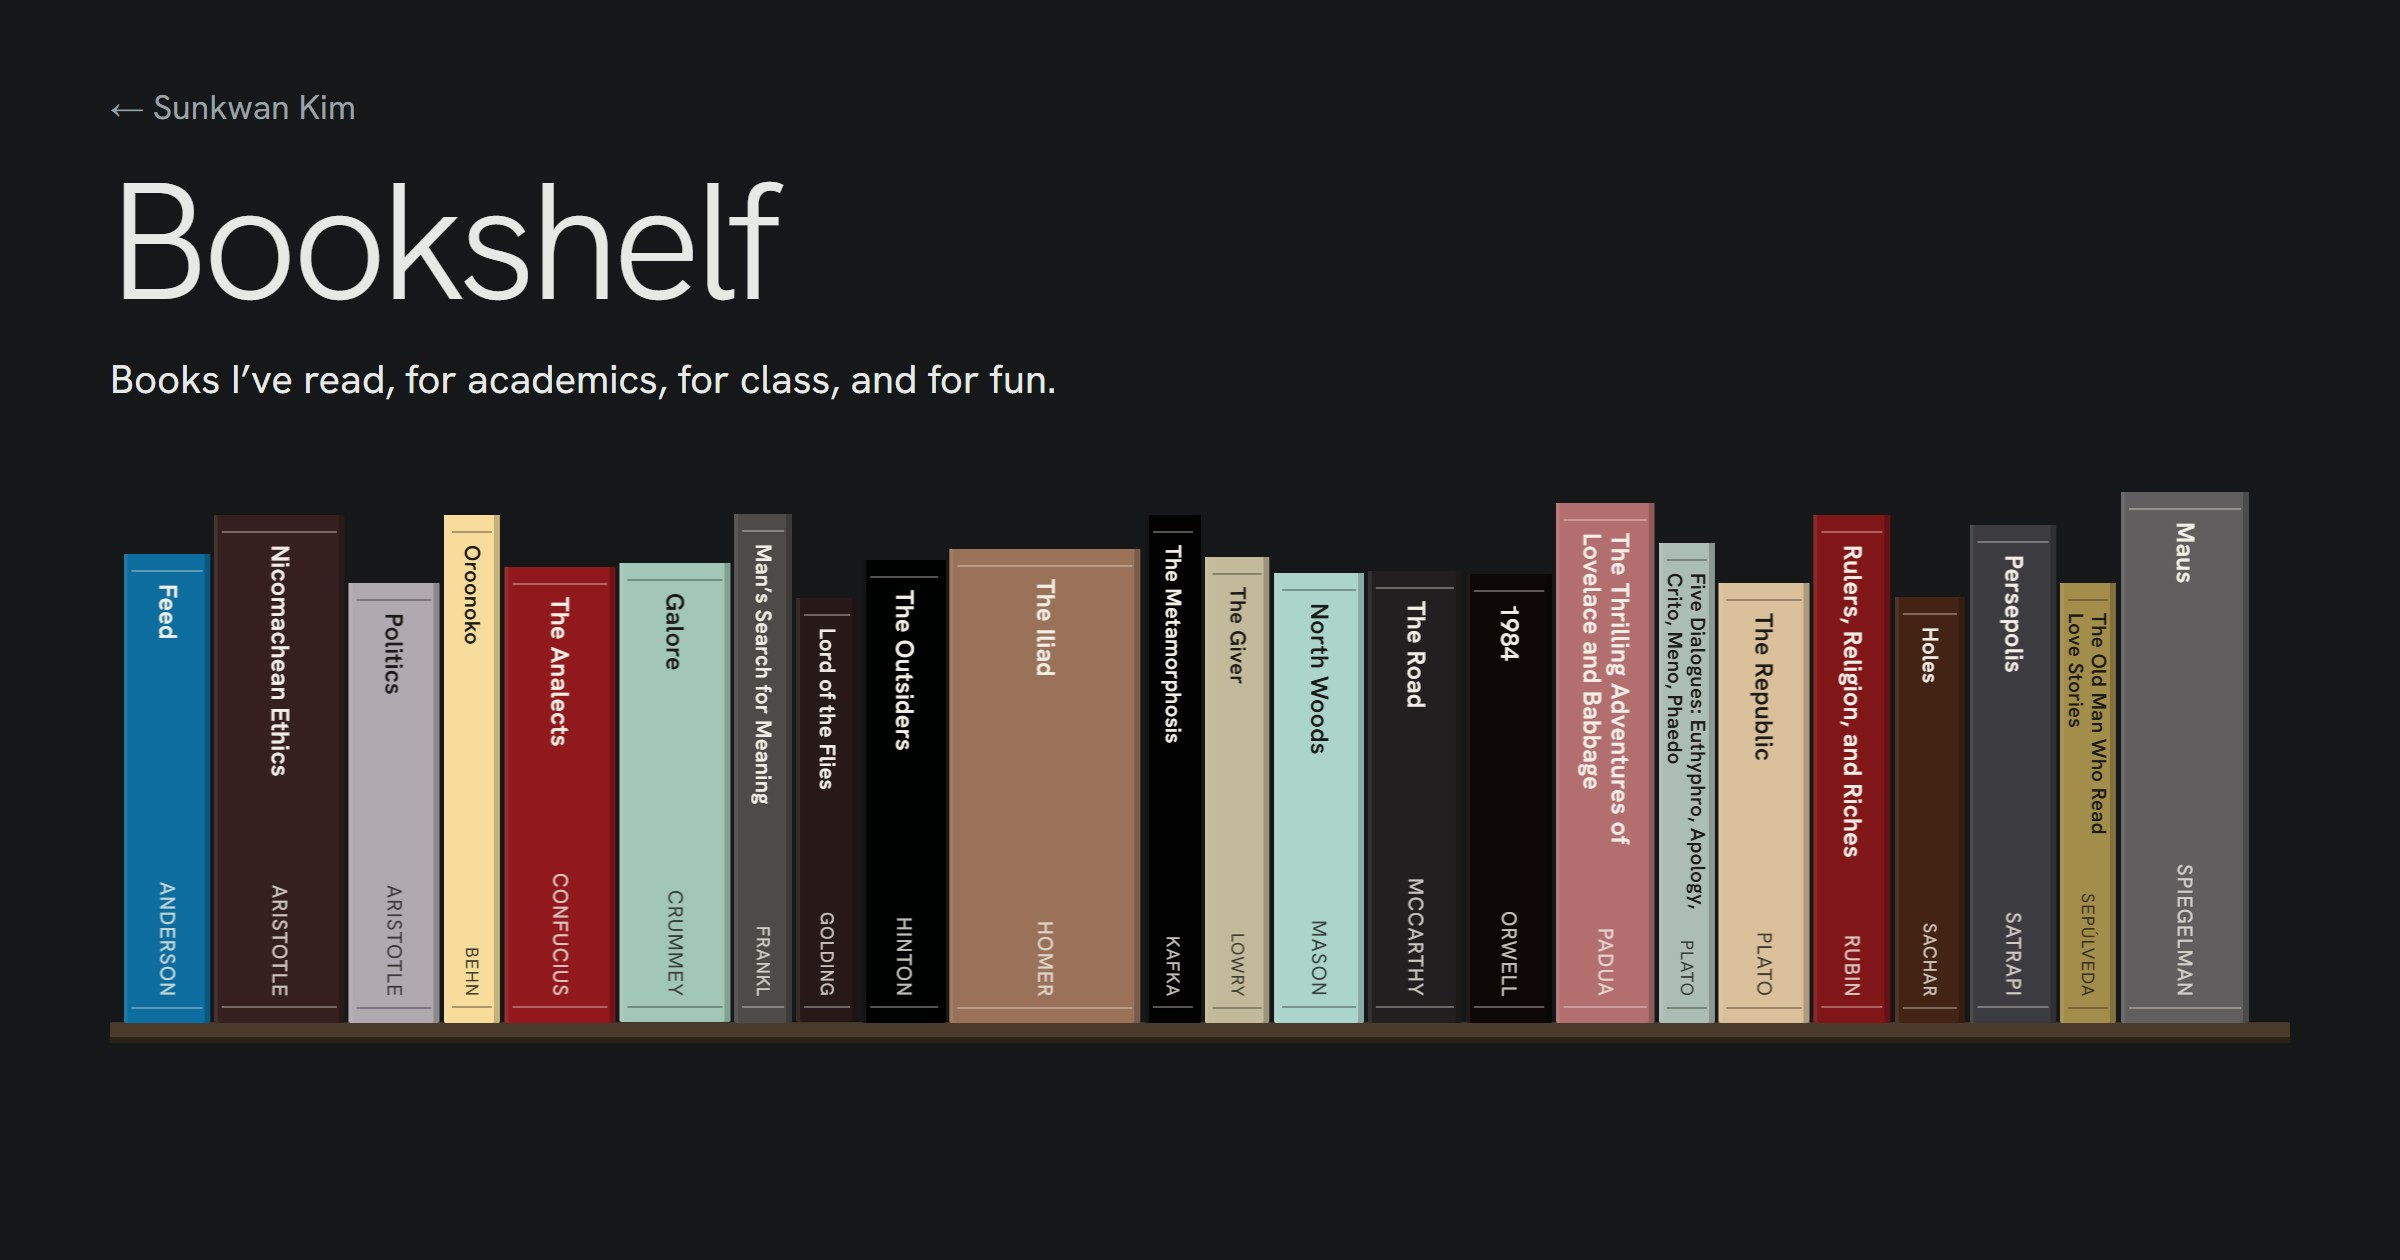
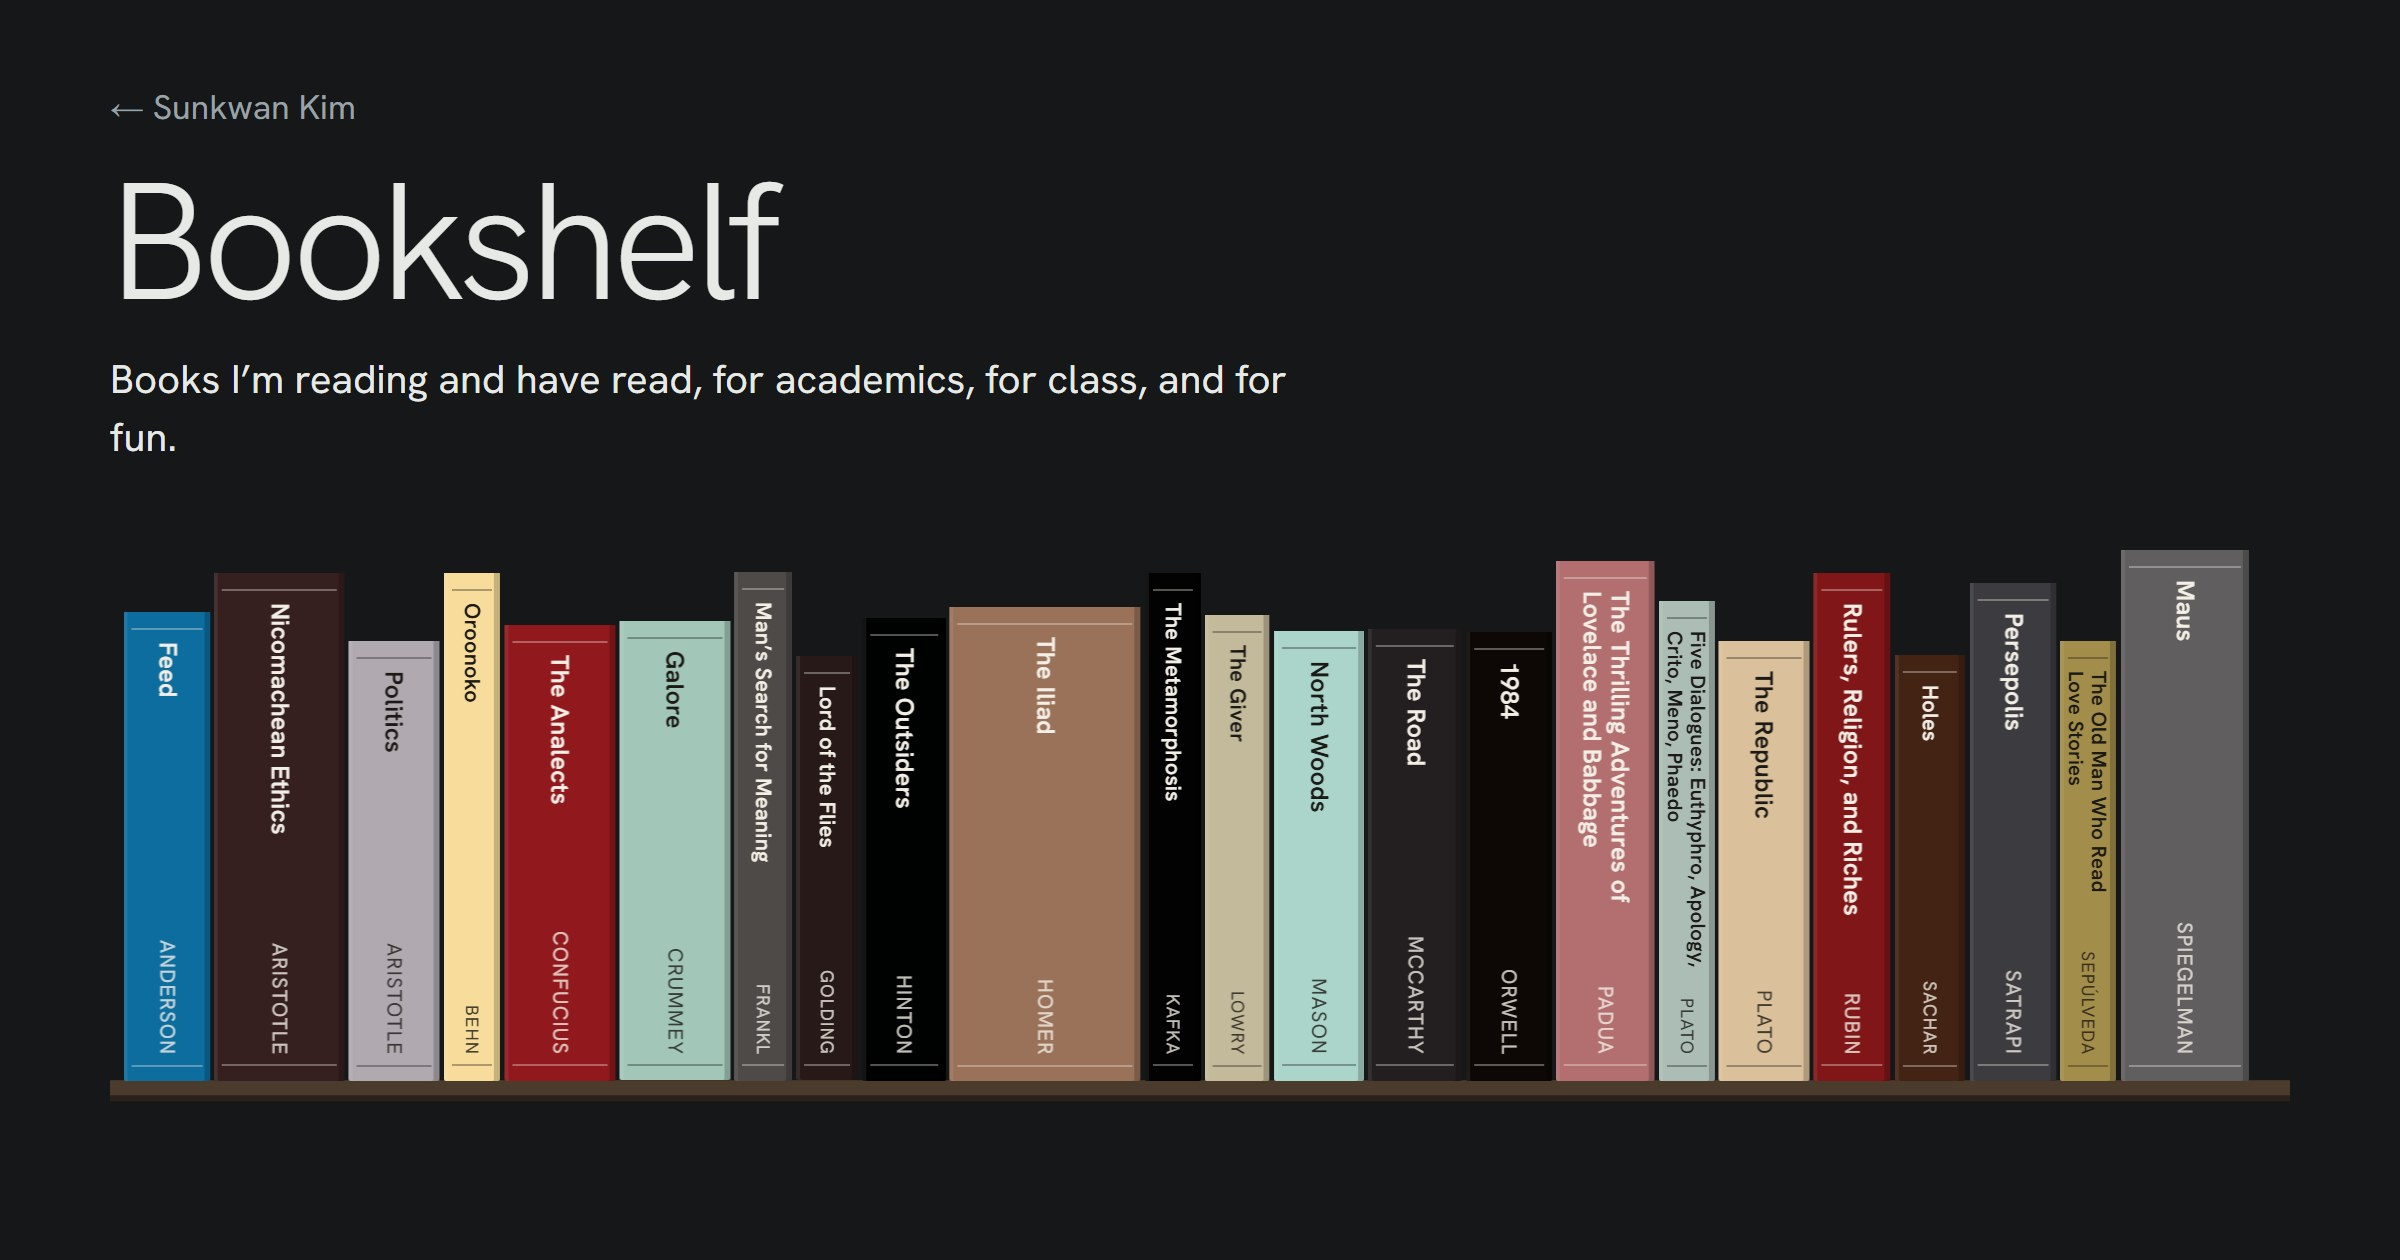
QA fixes: grey-course key, Bookshelf link, intro wording, List-view gap
- Home: note under the folded coursework list says less related
  courses are in grey; Bookshelf added to the links under the name
  (own full-width row below 480px so it doesn't wrap); curly
  apostrophes in About.
- Bookshelf: intro reads "Books I'm reading and have read" (page and
  preview card); the click/tap hint moved below the Shelf/List switch
  and is removed in List view, so List view has no empty gap and the
  switch doesn't move.

diff --git a/index.html b/index.html
@@ -49,6 +49,7 @@
           <a href="https://github.com/danylk">GitHub</a>
           <a href="https://www.linkedin.com/in/sunkwankim/">LinkedIn</a>
           <a href="mailto:kim.sunk@northeastern.edu">Email</a>
+          <a href="books.html">Bookshelf</a>
         </nav>
       </div>
     </header>
@@ -57,7 +58,7 @@
       <h2 id="about">About</h2>
       <div class="rows">
         <div class="prose">
-          <p>I also go by Daniel. I'm finishing a bachelor's degree in Computer Science at <a href="https://www.northeastern.edu/">Northeastern University</a>, with a concentration in Foundations and a minor in Economics, and expect to graduate in December 2026. I enjoy theory in general and cryptography broadly: how schemes are defined, what it takes to prove them secure, and how the pieces build on one another.</p>
+          <p>I also go by Daniel. I’m finishing a bachelor’s degree in Computer Science at <a href="https://www.northeastern.edu/">Northeastern University</a>, with a concentration in Foundations and a minor in Economics, and expect to graduate in December 2026. I enjoy theory in general and cryptography broadly: how schemes are defined, what it takes to prove them secure, and how the pieces build on one another.</p>
           <p>Outside of cryptography, I’m interested in music, philosophy, and religion, and I keep a list of <a href="books.html">books I’ve read</a>.</p>
         </div>
       </div>
@@ -68,7 +69,7 @@
         <button class="fold" type="button" aria-expanded="false" aria-controls="course-rows">Relevant Coursework<svg class="chevron" viewBox="0 0 16 16" width="16" height="16" aria-hidden="true"><path d="M6 3.5 10.5 8 6 12.5" fill="none" stroke="currentColor" stroke-width="1.6" stroke-linecap="round" stroke-linejoin="round"/></svg></button>
       </h2>
       <div class="rows courses" id="courses">
-        <p class="course-names"><span class="cn">Advanced Algorithms<span class="sep">,</span></span> <span class="cn">Programming with Probabilities<span class="sep">,</span></span> <span class="cn">Cryptography I (Stanford Online)<span class="sep">,</span></span> <span class="cn">Logic and Computation<span class="sep">,</span></span> <span class="cn">Introduction to CS Research<span class="sep">,</span></span> <span class="cn dim">Principles of AI<span class="sep">,</span></span> <span class="cn">Cryptography<span class="sep">,</span></span> <span class="cn dim">Information Retrieval<span class="sep">,</span></span> <span class="cn dim">Machine Learning and Data Mining 1<span class="sep">,</span></span> <span class="cn">Theory of Computation<span class="sep">,</span></span> <span class="cn dim">Computer Systems<span class="sep">,</span></span> <span class="cn">Algorithms and Data<span class="sep">,</span></span> <span class="cn">Mathematics of Data Models<span class="sep">,</span></span> <span class="cn dim">Foundations of Cybersecurity</span></p>
+        <p class="course-names"><span class="cn">Advanced Algorithms<span class="sep">,</span></span> <span class="cn">Programming with Probabilities<span class="sep">,</span></span> <span class="cn">Cryptography I (Stanford Online)<span class="sep">,</span></span> <span class="cn">Logic and Computation<span class="sep">,</span></span> <span class="cn">Introduction to CS Research<span class="sep">,</span></span> <span class="cn dim">Principles of AI<span class="sep">,</span></span> <span class="cn">Cryptography<span class="sep">,</span></span> <span class="cn dim">Information Retrieval<span class="sep">,</span></span> <span class="cn dim">Machine Learning and Data Mining 1<span class="sep">,</span></span> <span class="cn">Theory of Computation<span class="sep">,</span></span> <span class="cn dim">Computer Systems<span class="sep">,</span></span> <span class="cn">Algorithms and Data<span class="sep">,</span></span> <span class="cn">Mathematics of Data Models<span class="sep">,</span></span> <span class="cn dim">Foundations of Cybersecurity</span><span class="course-key">Less related courses in grey.</span></p>
         <div class="course-rows" id="course-rows" hidden>
           <div class="row course">
             <p class="year">2026</p>
@@ -274,7 +275,7 @@
       var names = Array.prototype.slice.call(list.querySelectorAll('.cn'));
       var titles = Array.prototype.slice.call(rows.querySelectorAll('h3'));
       var extras = Array.prototype.slice.call(rows.querySelectorAll('.year, .meta'));
-      var seps = Array.prototype.slice.call(list.querySelectorAll('.sep'));
+      var seps = Array.prototype.slice.call(list.querySelectorAll('.sep, .course-key'));
       var ease = 'cubic-bezier(0.2, 0.7, 0.2, 1)';
       var duration = 480;
 

diff --git a/books.html b/books.html
@@ -48,13 +48,14 @@
     <header class="subhead">
       <a class="back" href="index.html">← Sunkwan Kim</a>
       <h1 class="page-title">Bookshelf</h1>
-      <p class="statement">Books I’ve read, for academics, for class, and for fun.</p>
-      <p class="note">I add to this list as I read more, and as I remember books I read before.<span class="shelf-only"> Click or tap a book to turn it to its cover.</span></p>
+      <p class="statement">Books I’m reading and have read, for academics, for class, and for fun.</p>
+      <p class="note">I add to this list as I read more, and as I remember books I read before.</p>
       <div class="view-switch" role="group" aria-label="Show books as" hidden>
         <span class="vs-pill" aria-hidden="true"></span>
         <button type="button" data-view="shelf" aria-pressed="true"><span class="vs-icon vs-shelf" aria-hidden="true"><i></i><i></i><i></i></span>Shelf</button>
         <button type="button" data-view="list" aria-pressed="false"><span class="vs-icon vs-list" aria-hidden="true"><i></i><i></i><i></i></span>List</button>
       </div>
+      <p class="note shelf-hint shelf-only">Click or tap a book to turn it to its cover.</p>
     </header>
 
     <div class="view view-shelf">

diff --git a/style.css b/style.css
@@ -163,6 +163,20 @@ a:focus-visible {
   margin-top: 1rem;
 }
 
+/* Narrow screens: the column beside the portrait is too narrow for the
+   four links, so they get their own full-width row below it */
+@media (max-width: 29.99rem) {
+  .hero {
+    grid-template-areas:
+      "name name"
+      "text portrait"
+      "links links";
+  }
+  .hero-text { display: contents; }
+  .statement { grid-area: text; }
+  .links { grid-area: links; margin-top: -0.5rem; }
+}
+
 /* Subpage header (Bookshelf): a back link and a smaller title in the
    same light grotesque as the name on the home page */
 
@@ -268,6 +282,15 @@ a:focus-visible {
 
 /* Courses outside the theory and cryptography core are set quieter */
 .cn.dim { color: var(--muted); }
+
+/* Says what the grey means; shown with the folded list only (the
+   unfolded rows aren't dimmed) */
+.course-key {
+  display: block;
+  margin-top: 0.6rem;
+  font-size: 0.85rem;
+  color: var(--muted);
+}
 
 @media (prefers-reduced-motion: no-preference) {
   .chevron { transition: transform 0.3s ease, color 0.15s ease; }

diff --git a/bookshelf.css b/bookshelf.css
@@ -572,9 +572,10 @@ html { overflow-anchor: none; }
   height: 0;
   overflow: hidden;
 }
-/* The shelf hint keeps its space in List view, so the header (and the
-   switch in it) doesn't move when the view changes */
-:root[data-view="list"] .shelf-only { visibility: hidden; opacity: 0; }
+/* The shelf hint sits below the switch and is removed in List view, so
+   it leaves no gap and the switch above it doesn't move */
+.subhead .shelf-hint { margin-top: 0.9rem; }
+:root[data-view="list"] .shelf-only { display: none; }
 
 /* The switch: a pill (.vs-pill) slides behind the pressed button,
    stretching across both on the way (bookshelf.js places and animates
